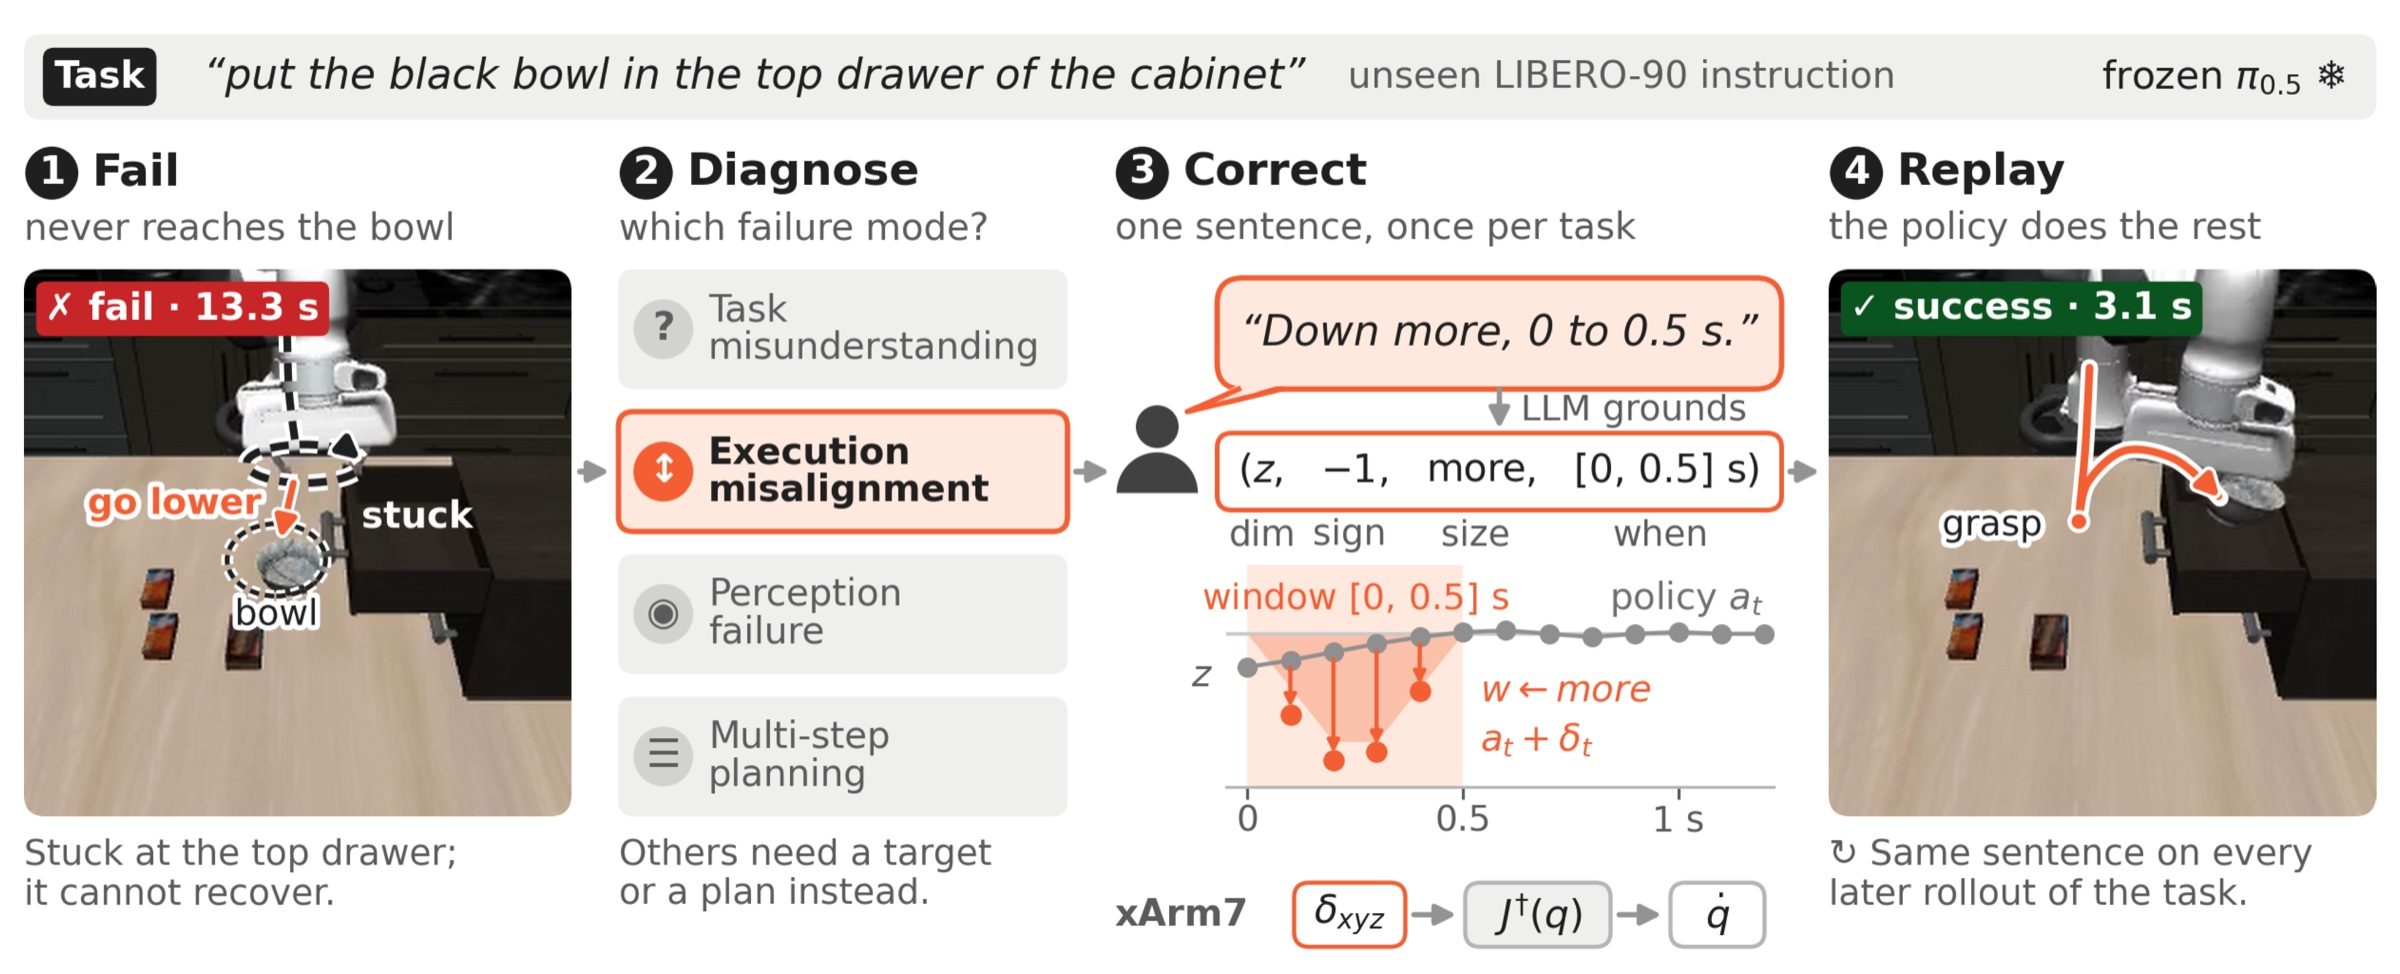
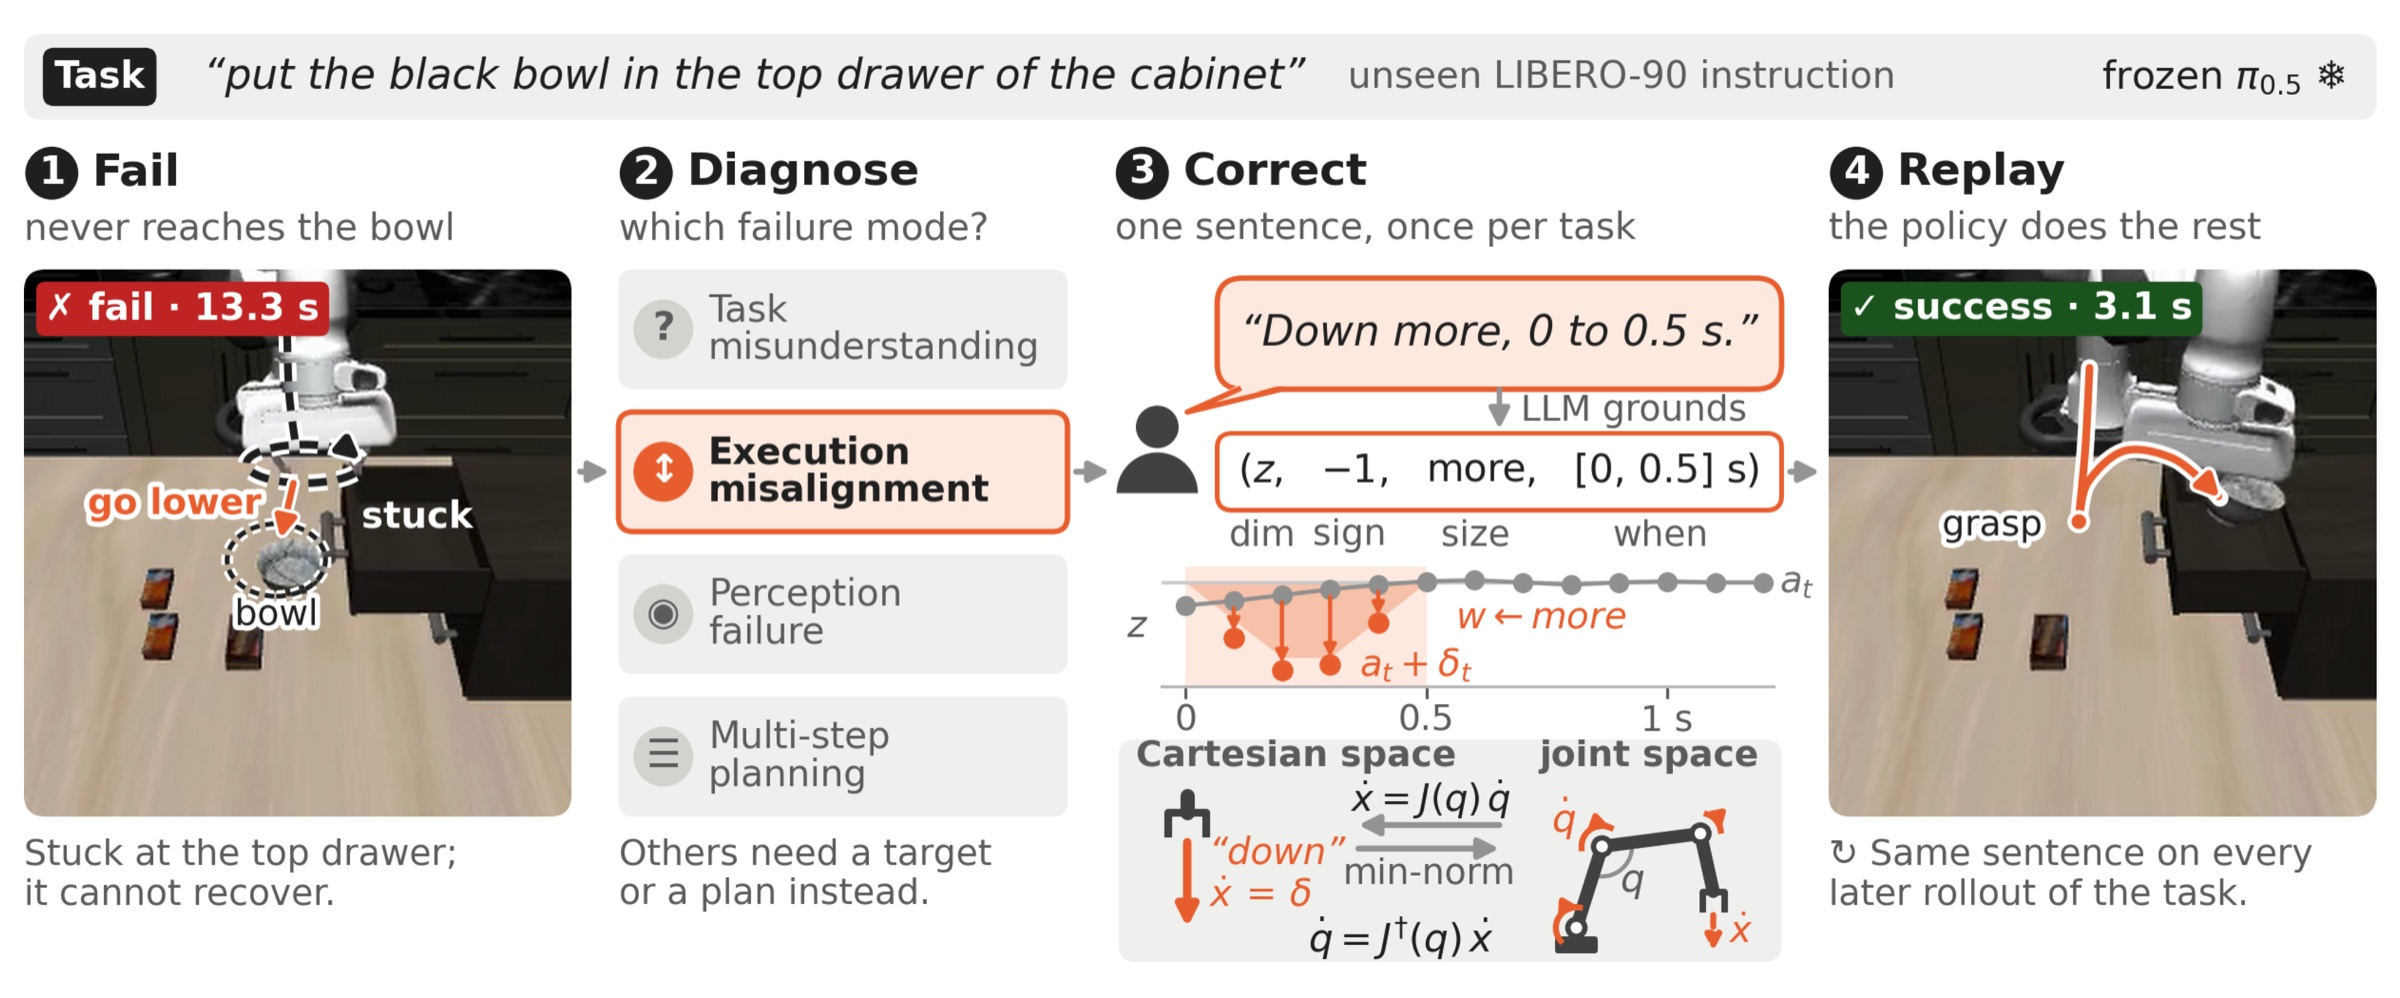
Update overview figure to the latest paper version
The new Figure 1 adds the Cartesian-to-joint-space mapping to the
correction panel. Also matches Section 6 wording for the VLM baseline
and links the action-space note to the figure panel.

diff --git a/index.html b/index.html
@@ -85,7 +85,7 @@
 
     <figure class="paper-fig overview-fig">
       <button class="zoom" type="button" aria-label="Enlarge overview figure">
-        <img src="./static/images/overview.jpg" alt="Overview. The frozen pi0.5 gets stuck at the top drawer; the failure is diagnosed as execution misalignment; the person says 'Down more, 0 to 0.5 s', which an LLM grounds into (z, -1, more, [0, 0.5] s) and adds as a short bias to the policy's actions; the policy then finishes, and later rollouts reuse the same sentence." width="2400" height="974">
+        <img src="./static/images/overview.jpg" alt="Overview. The frozen pi0.5 gets stuck at the top drawer; the failure is diagnosed as execution misalignment; the person says 'Down more, 0 to 0.5 s', which an LLM grounds into (z, -1, more, [0, 0.5] s) and adds as a short bias to the policy's actions, mapped from Cartesian space to joint velocities through the Jacobian pseudoinverse; the policy then finishes, and later rollouts reuse the same sentence." width="2400" height="998">
       </button>
       <figcaption><b>Overview.</b> The frozen &pi;<sub>0.5</sub> gets stuck at the top drawer and cannot recover (1), an execution misalignment (2). One sentence becomes a short bias &delta; (3); the policy finishes, and later rollouts reuse it (4). Orange marks what the person supplies; paths and actions are schematic. Click to enlarge.</figcaption>
     </figure>
@@ -298,7 +298,7 @@
     <div class="twocol">
       <div class="note-card">
         <h3>Action-space adaptation</h3>
-        <p>Corrections are specified in Cartesian space to match how people speak (&ldquo;move left,&rdquo; &ldquo;move up&rdquo;). The real xArm7 runs under joint-velocity control, so a Cartesian correction is mapped to joint velocities through the Jacobian pseudoinverse, the minimum-norm joint velocity that realizes the requested end-effector motion.</p>
+        <p>Corrections are specified in Cartesian space to match how people speak (&ldquo;move left,&rdquo; &ldquo;move up&rdquo;). The real xArm7 runs under joint-velocity control, so a Cartesian correction is mapped to joint velocities through the Jacobian pseudoinverse, the minimum-norm joint velocity that realizes the requested end-effector motion. Panel 3 of the <a href="#overview">overview figure</a> shows this mapping.</p>
       </div>
       <div class="note-card">
         <h3>What the signal assumes</h3>
@@ -482,7 +482,7 @@
       </article>
       <article class="versus__side">
         <p class="versus__who">GPT-5 mini, naively prompted, one attempt</p>
-        <p class="versus__how">Sees the same failure video and writes the same 4-tuple.</p>
+        <p class="versus__how">Sees the same failure video and is asked for the same 4-tuple.</p>
         <dl>
           <div><dt>In-distribution failures recovered</dt><dd>0 <span>/ 139</span></dd></div>
           <div><dt>Out-of-distribution failures recovered</dt><dd>0 <span>/ 328</span></dd></div>
